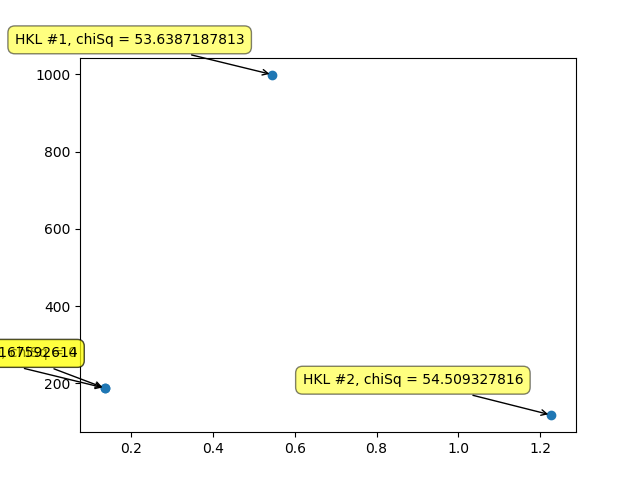
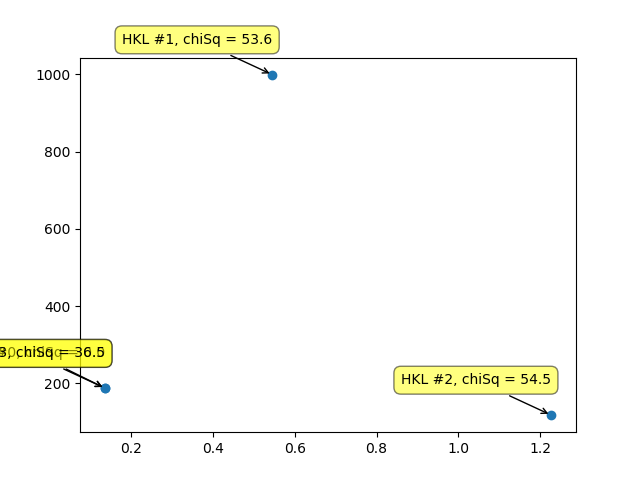
Updated epGreedyBumpsTest.py

Changed region(s): [[0.4375, 0.75, 0.875, 0.875], [0.0, 0.0312, 0.4375, 0.1562], [0.0, 0.6875, 0.1875, 0.8125]]

diff --git a/hklgen/examples/sxtal/epGreedy/epGreedyBumpsTest.py b/hklgen/examples/sxtal/epGreedy/epGreedyBumpsTest.py
@@ -219,7 +219,7 @@ def test_algorithm(agent, actions, num_sims, horizon, numParameters):
 	print(x1)
 	N = 10
 #	data = np.random.random((N, 4))
-	labels = [str("HKL #" + str(i) + ", chiSq = " + str(chiSqs[i])) for i in range(len(chiSqs))]
+	labels = [str("HKL #" + str(i) + ", chiSq = " + str(round(chiSqs[i],1))) for i in range(len(chiSqs))]
 
 	plt.subplots_adjust(bottom = 0.1)
 	plt.scatter(
@@ -228,7 +228,7 @@ def test_algorithm(agent, actions, num_sims, horizon, numParameters):
 	for label, q, sfs in zip(labels, qSquared, y):
 	    plt.annotate(
         	label,
-	        xy=(q, sfs), xytext=(-20, 20),
+	        xy=(q, sfs), xytext=(0, 20),
 	        textcoords='offset points', ha='right', va='bottom',
 	        bbox=dict(boxstyle='round,pad=0.5', fc='yellow', alpha=0.5),
 	        arrowprops=dict(arrowstyle = '->', connectionstyle='arc3,rad=0'))
